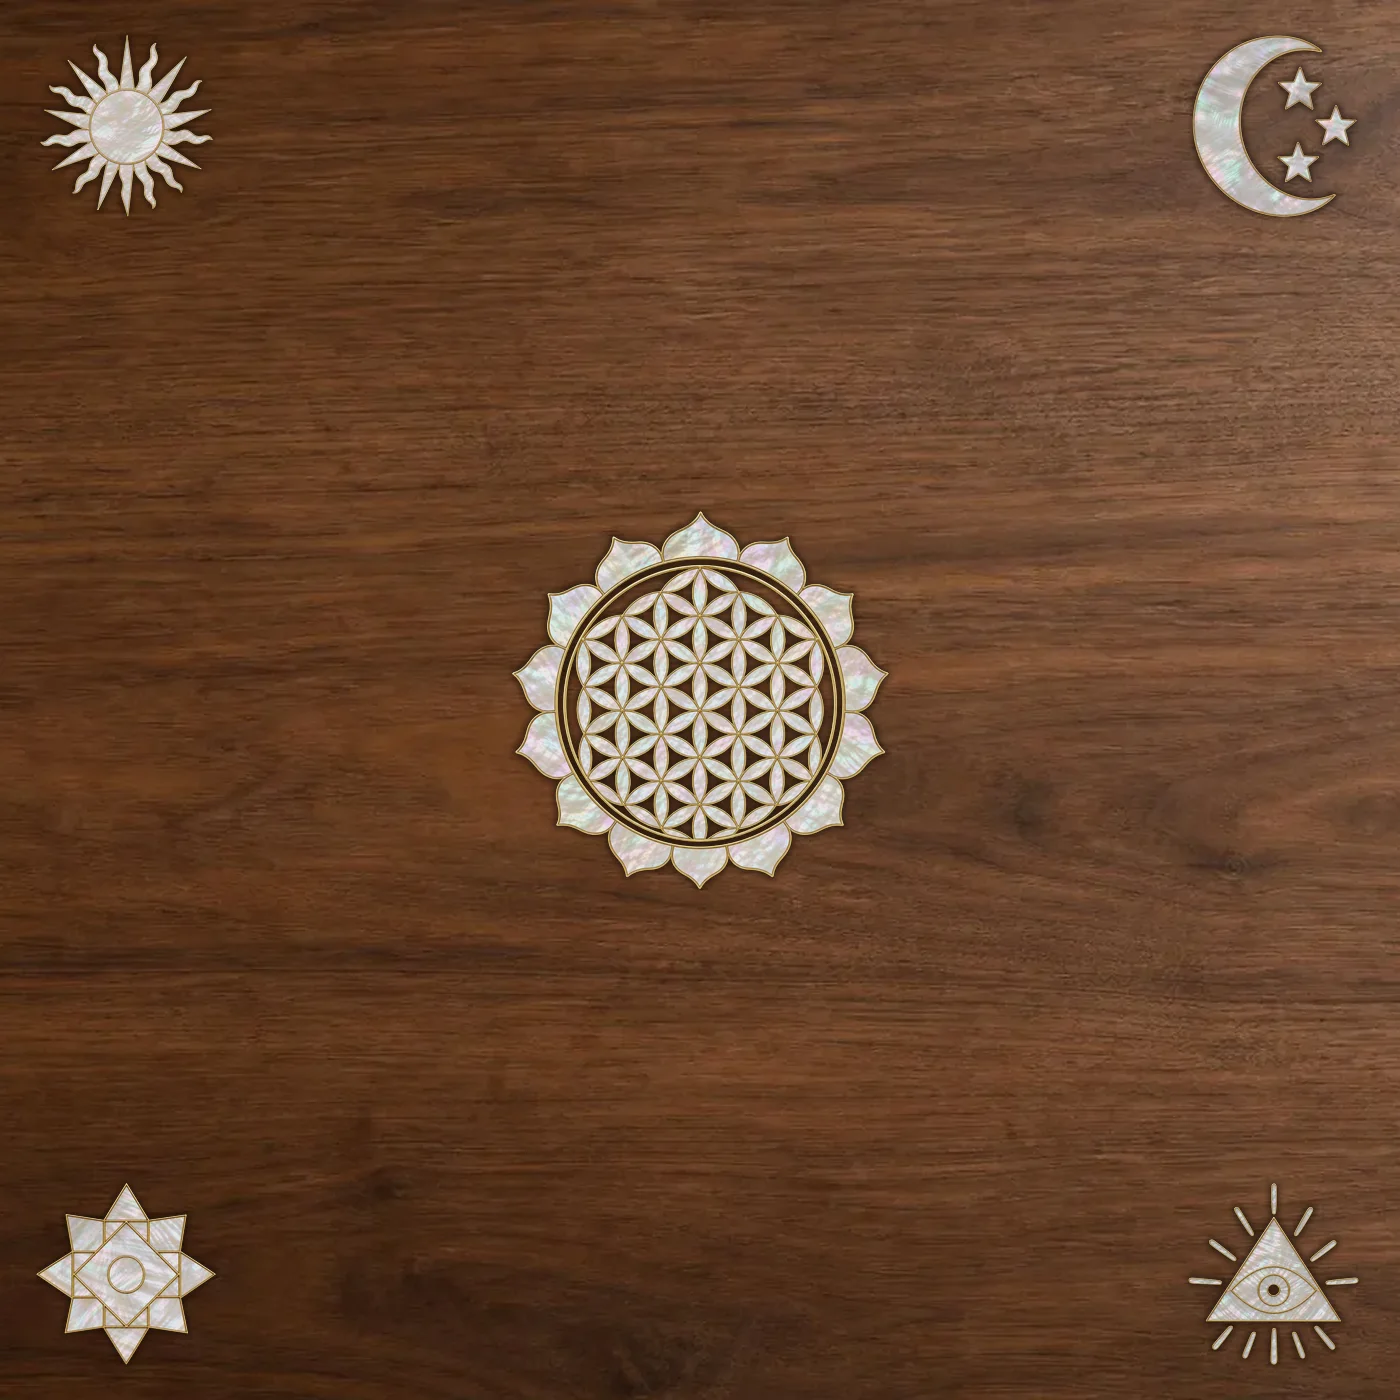
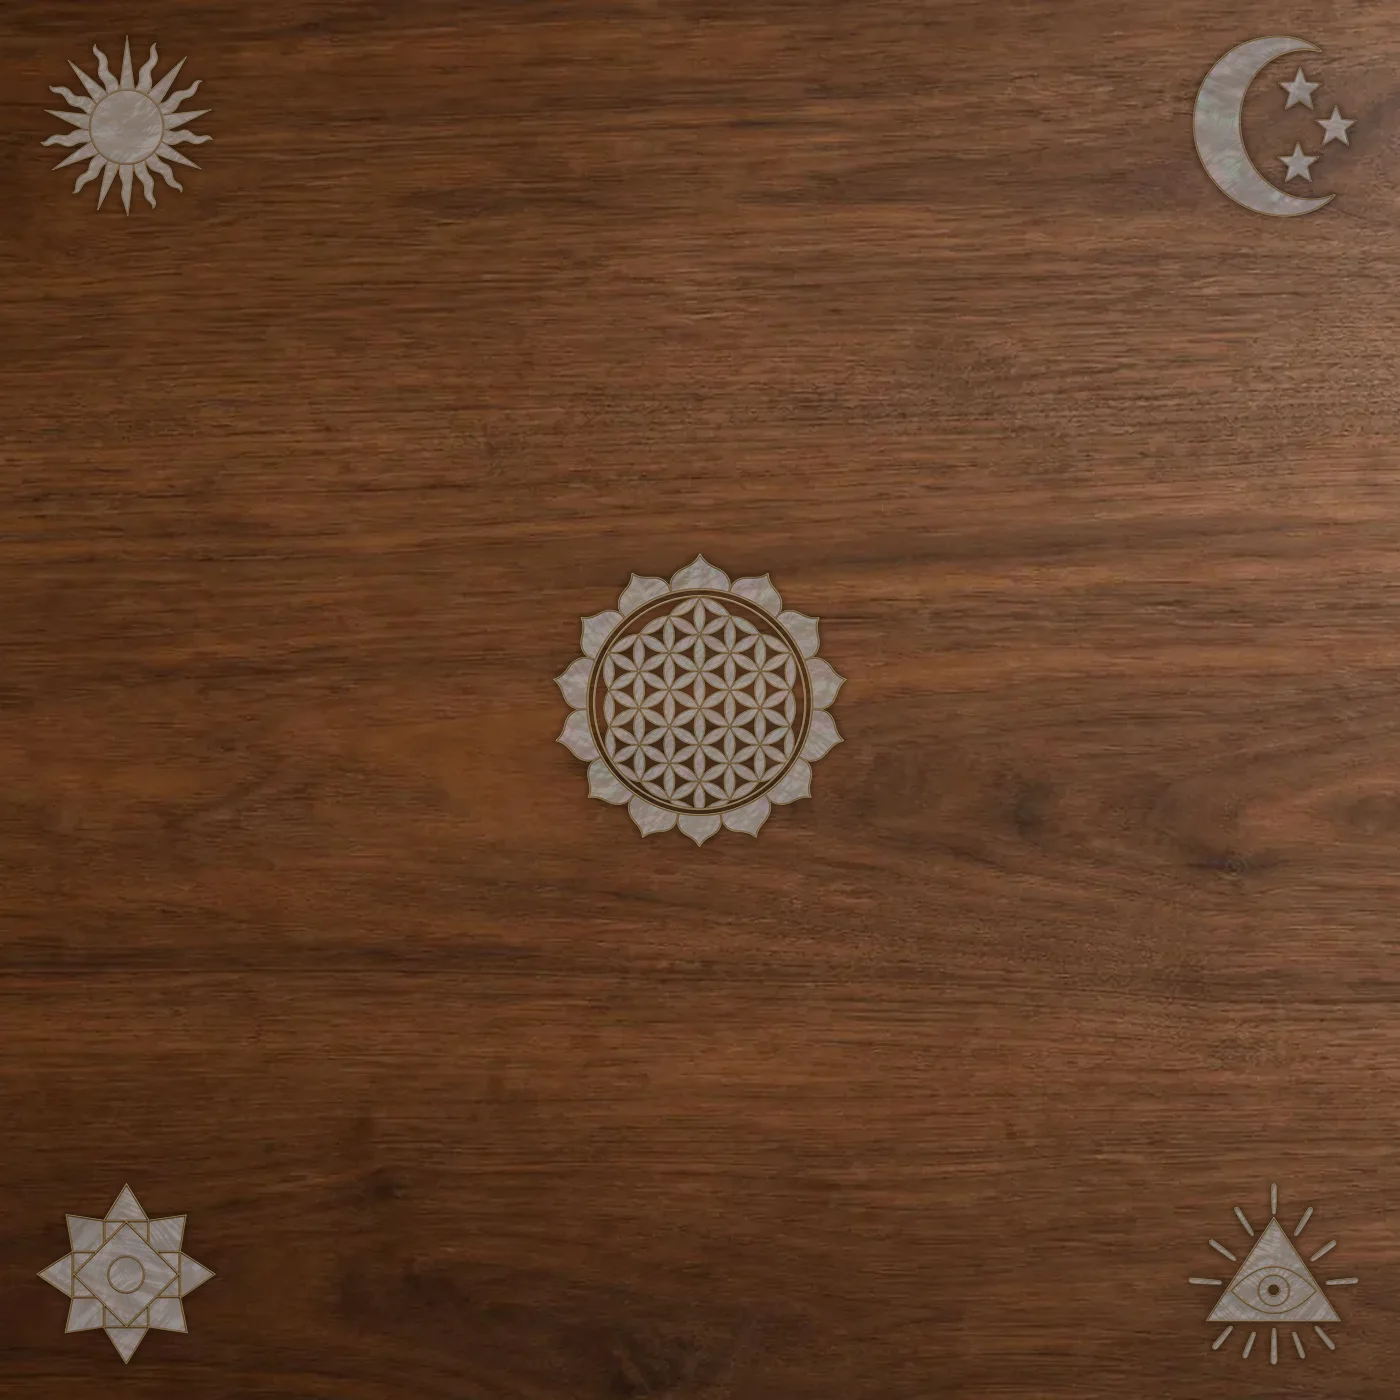
Taşlarla Dizim: sedef kakmalar daha soluk, merkez rozet küçük ve tıklanınca taşları rastgele dizer; boş masa yazısı üst kenarda; masaya düşen taş gediğin ortasında belirir

diff --git a/dizim.css b/dizim.css
@@ -46,7 +46,7 @@
 .tray.uzerinde { border-color: var(--gold); background: rgba(243, 194, 107, 0.08); }
 .tray:empty::before { content: "Taşların hepsi masada."; color: var(--muted); font-size: 0.84rem; text-align: center; }
 .table-frame { position: relative; width: 100%; max-width: calc(100vh - 150px); min-width: min(100%, 320px); margin: 0 auto; padding: 14px; border-radius: 26px; background: linear-gradient(160deg, #3a2414, #1d120a); box-shadow: 0 30px 60px rgba(0, 0, 0, 0.55), inset 0 2px 0 rgba(255, 220, 170, 0.12); }
-.table { position: relative; aspect-ratio: 1; border-radius: 16px; background: url(/dizim/masa-kare.webp?v=1) center / cover; box-shadow: inset 0 0 60px rgba(0, 0, 0, 0.45), inset 0 0 0 1px rgba(0, 0, 0, 0.4); overflow: hidden; }
+.table { position: relative; aspect-ratio: 1; border-radius: 16px; background: url(/dizim/masa-kare.webp?v=2) center / cover; box-shadow: inset 0 0 60px rgba(0, 0, 0, 0.45), inset 0 0 0 1px rgba(0, 0, 0, 0.4); overflow: hidden; }
 .table.uzerinde { box-shadow: inset 0 0 60px rgba(0, 0, 0, 0.45), inset 0 0 0 3px rgba(243, 194, 107, 0.6); }
 .table .stone { position: absolute; z-index: 1; transform: translate(-50%, -38%); }
 /* Gedikler: iç ve dış çemberde masaya oyulmuş çukurlar; taşlar yalnız bunlara oturur */
@@ -56,7 +56,15 @@
 .gedik.ic { background: radial-gradient(ellipse at 50% 40%, rgba(20, 8, 0, 0.66), rgba(0, 0, 0, 0.36) 70%, rgba(243, 194, 107, 0.16) 100%); }
 .gedik.hedef { box-shadow: inset 0 4px 8px rgba(0, 0, 0, 0.65), 0 0 0 3px rgba(243, 194, 107, 0.85), 0 0 18px rgba(243, 194, 107, 0.6); }
 .stone.kaynak { opacity: 0.25; }
-.table-hint { position: absolute; inset: 0; display: grid; place-items: center; margin: 0; color: rgba(255, 240, 220, 0.6); font-family: var(--serif); font-size: 1.4rem; font-style: italic; pointer-events: none; }
+/* Masadaki taş belirirken de gediğin ortasında kalsın (genel "belir" animasyonu translate'i siler) */
+.table .stone.yeni, .frozen .stone.yeni { animation: belirMasa 0.35s cubic-bezier(0.3, 1.4, 0.5, 1) both; }
+@keyframes belirMasa { from { transform: translate(-50%, -38%) scale(0.4); opacity: 0; } to { transform: translate(-50%, -38%); opacity: 1; } }
+/* Boş masa yazısı: üst kenardaki boşlukta (köşe işaretlerinin arasında), ortadaki rozeti kapatmaz */
+.table-hint { position: absolute; top: calc(14px + 2.2%); left: 22%; right: 22%; margin: 0; color: rgba(255, 240, 220, 0.78); font-family: var(--serif); font-size: clamp(0.8rem, 1.9vw, 1.2rem); font-style: italic; line-height: 1.25; text-align: center; text-shadow: 0 1px 6px rgba(0, 0, 0, 0.7); pointer-events: none; }
+/* Ortadaki sedef rozet: tıklanınca taşları rastgele dizer */
+.merkez-rozet { position: absolute; left: 50%; top: 50%; width: 21%; aspect-ratio: 1; padding: 0; border: 0; border-radius: 50%; background: none; transform: translate(-50%, -50%); cursor: pointer; transition: box-shadow 0.2s ease; }
+.merkez-rozet:hover, .merkez-rozet:focus-visible { outline: none; box-shadow: 0 0 0 2px rgba(243, 194, 107, 0.55), 0 0 28px rgba(243, 194, 107, 0.45); }
+.merkez-rozet:active { box-shadow: 0 0 0 3px rgba(243, 194, 107, 0.9), 0 0 36px rgba(243, 194, 107, 0.6); }
 .bench-actions { display: flex; flex-wrap: wrap; align-items: center; gap: 12px; margin-top: 14px; }
 .bench-actions .count { flex: 1; color: var(--muted); font-size: 0.9rem; text-align: center; }
 
@@ -65,7 +73,7 @@
 .result h2 { font-size: clamp(1.8rem, 4vw, 2.4rem); }
 .result-layout { display: grid; grid-template-columns: minmax(0, 1.15fr) minmax(0, 1fr); gap: 20px; align-items: start; margin-top: 14px; }
 .snapshot { margin: 0; }
-.frozen.kare { background-image: url(/dizim/masa-kare.webp?v=1); }
+.frozen.kare { background-image: url(/dizim/masa-kare.webp?v=2); }
 .frozen { position: relative; aspect-ratio: 3 / 2; border: 10px solid #2a1a0e; border-radius: 18px; background: url(/dizim/masa.webp?v=1) center / cover; box-shadow: 0 20px 40px rgba(0, 0, 0, 0.5); overflow: hidden; --tas: clamp(34px, 5vw, 60px); }
 .frozen .stone { position: absolute; z-index: 1; transform: translate(-50%, -38%); cursor: default; }
 .frozen svg { position: absolute; inset: 0; width: 100%; height: 100%; pointer-events: none; opacity: 0; transition: opacity 0.4s; }

diff --git a/dizim-sayfa.js b/dizim-sayfa.js
@@ -173,7 +173,7 @@ let surukleme = null;
 
 // Masada, bırakılan noktaya en yakın boş gedik (taşın kendi gediği boş sayılır).
 function enYakinGedik(nx, ny, t) {
-  const dolu = new Set(taslar.filter((s) => s !== t && s.gedik != null).map((s) => s.gedik));
+  const dolu = new Set(taslar.filter((s) => s !== t && s.x != null && s.gedik != null).map((s) => s.gedik));
   let en = null;
   GEDIKLER.forEach((g, i) => {
     if (dolu.has(i)) return;
@@ -280,6 +280,29 @@ function gedikleriDuzelt() {
   });
 }
 
+// Masanın ortasındaki sedef rozet: tıklanınca bütün taşlar gediklere rastgele dizilir (Murat 2026-10-03).
+function merkezRozet() {
+  const b = document.createElement("button");
+  b.type = "button";
+  b.className = "merkez-rozet";
+  b.title = "Taşları rastgele diz";
+  b.setAttribute("aria-label", "Taşları gediklere rastgele diz");
+  b.addEventListener("click", rastgeleDiz);
+  return b;
+}
+
+function rastgeleDiz() {
+  if (!taslar.length) { toast("Önce yukarıdan taşlarını seç."); return; }
+  const sira = GEDIKLER.map((_, i) => i);
+  for (let i = sira.length - 1; i > 0; i -= 1) {
+    const j = Math.floor(Math.random() * (i + 1));
+    [sira[i], sira[j]] = [sira[j], sira[i]];
+  }
+  taslar.forEach((t, i) => { gedigeKoy(t, i < sira.length ? sira[i] : null); t.yeni = true; });
+  renderBench();
+  toast("Taşlar rastgele dizildi. İstediğin taşı sürükleyip yerini değiştirebilirsin.");
+}
+
 function gedikElleri() {
   return GEDIKLER.map((g, i) => {
     const d = document.createElement("span");
@@ -296,7 +319,7 @@ function renderBench() {
   $("tray").replaceChildren(...taslar.filter((t) => t.x == null).map((t) => tasEl(t, { kenarda: true })));
   gedikleriDuzelt();
   const masadakiler = taslar.filter((t) => t.x != null);
-  $("table").replaceChildren(...gedikElleri(), ...masadakiler.map((t) => tasEl(t)));
+  $("table").replaceChildren(...gedikElleri(), merkezRozet(), ...masadakiler.map((t) => tasEl(t)));
   $("tableHint").hidden = masadakiler.length > 0;
   const kenarda = taslar.length - masadakiler.length;
   $("placedCount").textContent = taslar.length
@@ -311,7 +334,7 @@ function renderAll() {
 }
 
 $("clearTable").addEventListener("click", () => {
-  taslar.forEach((t) => { t.x = null; t.y = null; });
+  taslar.forEach((t) => gedigeKoy(t, null));
   renderBench();
 });
 
@@ -339,7 +362,7 @@ async function goruntuCiz(liste) {
   c.width = W;
   c.height = H;
   const ctx = c.getContext("2d");
-  const masa = await resimYukle("/dizim/masa-kare.webp?v=1");
+  const masa = await resimYukle("/dizim/masa-kare.webp?v=2");
   const olcek = Math.max(W / masa.width, H / masa.height);
   ctx.drawImage(masa, (W - masa.width * olcek) / 2, (H - masa.height * olcek) / 2, masa.width * olcek, masa.height * olcek);
   const kenar = ctx.createRadialGradient(W / 2, H / 2, H * 0.45, W / 2, H / 2, W * 0.78);
@@ -564,7 +587,7 @@ function renderJournal() {
     open.type = "button";
     open.className = "open";
     open.innerHTML = "<div class=\"thumb\"></div><div class=\"meta\"><b></b><small></small><p></p></div>";
-    open.querySelector(".thumb").style.backgroundImage = k.gorsel ? `url(/api/dizim/gorsel?id=${k.id})` : "url(/dizim/masa-kare.webp?v=1)";
+    open.querySelector(".thumb").style.backgroundImage = k.gorsel ? `url(/api/dizim/gorsel?id=${k.id})` : "url(/dizim/masa-kare.webp?v=2)";
     open.querySelector("b").textContent = k.yorum.baslik;
     open.querySelector("small").textContent = tarih(k.tarih);
     open.querySelector("p").textContent = k.taslar.map((t) => t.ad).join(", ");

diff --git a/dizim.html b/dizim.html
@@ -12,7 +12,7 @@
     <link rel="preconnect" href="https://fonts.gstatic.com" crossorigin />
     <link href="https://fonts.googleapis.com/css2?family=Cormorant+Garamond:wght@500;600;700&family=Manrope:wght@500;600;700;800&display=swap" rel="stylesheet" />
     <link rel="stylesheet" href="/astroloji.css?v=10" />
-    <link rel="stylesheet" href="/dizim.css?v=4" />
+    <link rel="stylesheet" href="/dizim.css?v=5" />
   </head>
   <body>
     <header class="topbar">
@@ -67,13 +67,13 @@
         <div class="section-head">
           <p class="step">2. adım</p>
           <h2 id="step2Title">Taşları masaya yerleştir</h2>
-          <p class="section-note">Taşları kenardan sürükleyip masadaki gediklere bırak; taş en yakın boş gediğe oturur. İç çember merkeze yakın, dış çember çevrede. Hangi taşın nereye gideceği tamamen sana ait. Acele etme; her taşı koyarken bir an dur ve hisset. Masadan geri almak için taşı kenara sürükle.</p>
+          <p class="section-note">Taşları kenardan sürükleyip masadaki gediklere bırak; taş en yakın boş gediğe oturur. İç çember merkeze yakın, dış çember çevrede. Ortadaki rozete dokunursan taşlar rastgele dizilir. Hangi taşın nereye gideceği tamamen sana ait. Acele etme; her taşı koyarken bir an dur ve hisset. Masadan geri almak için taşı kenara sürükle.</p>
         </div>
         <div class="workbench">
           <div class="tray" id="tray" aria-label="Masaya konmamış taşlar"></div>
           <div class="table-frame">
             <div class="table" id="table" aria-label="Dizim masası"></div>
-            <p class="table-hint" id="tableHint">Masa boş. Taşları buraya sürükle.</p>
+            <p class="table-hint" id="tableHint">Masa boş. Taşları gediklere sürükle ya da ortadaki rozete dokun, rastgele dizilsin.</p>
           </div>
         </div>
         <div class="bench-actions">
@@ -174,7 +174,7 @@
     <script src="/dizim-hesap.js?v=1"></script>
     <script src="/uzmanlar.js?v=3"></script>
     <script src="/uzman-kart.js?v=3"></script>
-    <script src="/dizim-sayfa.js?v=3"></script>
+    <script src="/dizim-sayfa.js?v=4"></script>
     <script src="/ust-cubuk.js?v=2" defer></script>
 </body>
 </html>
